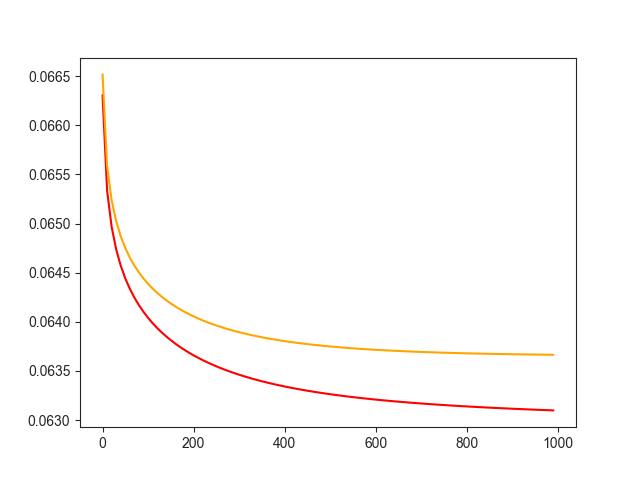
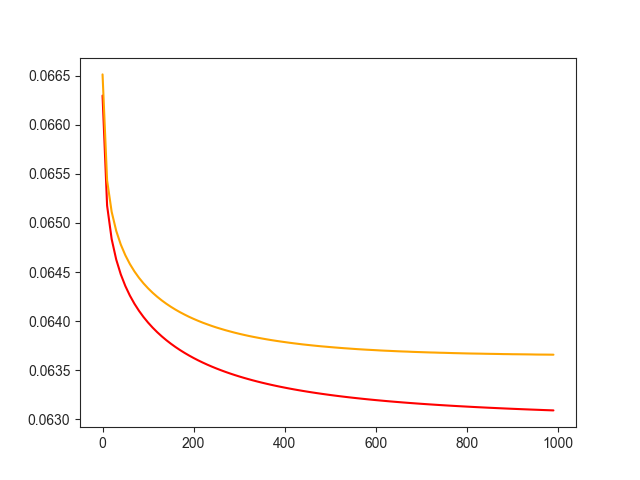
v10 update

diff --git a/package/src/peakfreeatac/models/promoter/v10/__init__.py b/package/src/peakfreeatac/models/promoter/v10/__init__.py
@@ -48,7 +48,7 @@ class FragmentEmbedder(torch.nn.Module):
     
     def forward(self, coordinates, gene_ix):
         embedding = torch.sin((coordinates[..., None] * self.frequencies + self.shifts).flatten(-2))
-        embedding = torch.einsum('ab,abc->ac', embedding, self.weight1[gene_ix])# + torch.einsum('ab,bc->ac', embedding, self.weight2)
+        embedding = torch.einsum('ab,abc->ac', embedding, self.weight1[gene_ix]) + torch.einsum('ab,bc->ac', embedding, self.weight2)
 
         return embedding
 

diff --git a/code/promoter/3-explore_model.py b/code/promoter/3-explore_model.py
@@ -104,9 +104,6 @@ def explode_dataframe(df, column):
 # %%
 transcriptome_pd = pd.DataFrame(transcriptome.X.dense().cpu().numpy(), index = transcriptome.obs.index, columns = transcriptome.var.index)
 
-# %%
-transcriptome.var.index.name = "gene"
-
 
 # %%
 def score_fold(
@@ -360,6 +357,9 @@ gene_scores.to_pickle(scores_dir / "gene_scores.pkl")
 
 # %% [markdown]
 # ### Global view
+
+# %%
+aggscores.style.bar()
 
 # %%
 aggscores.style.bar()
